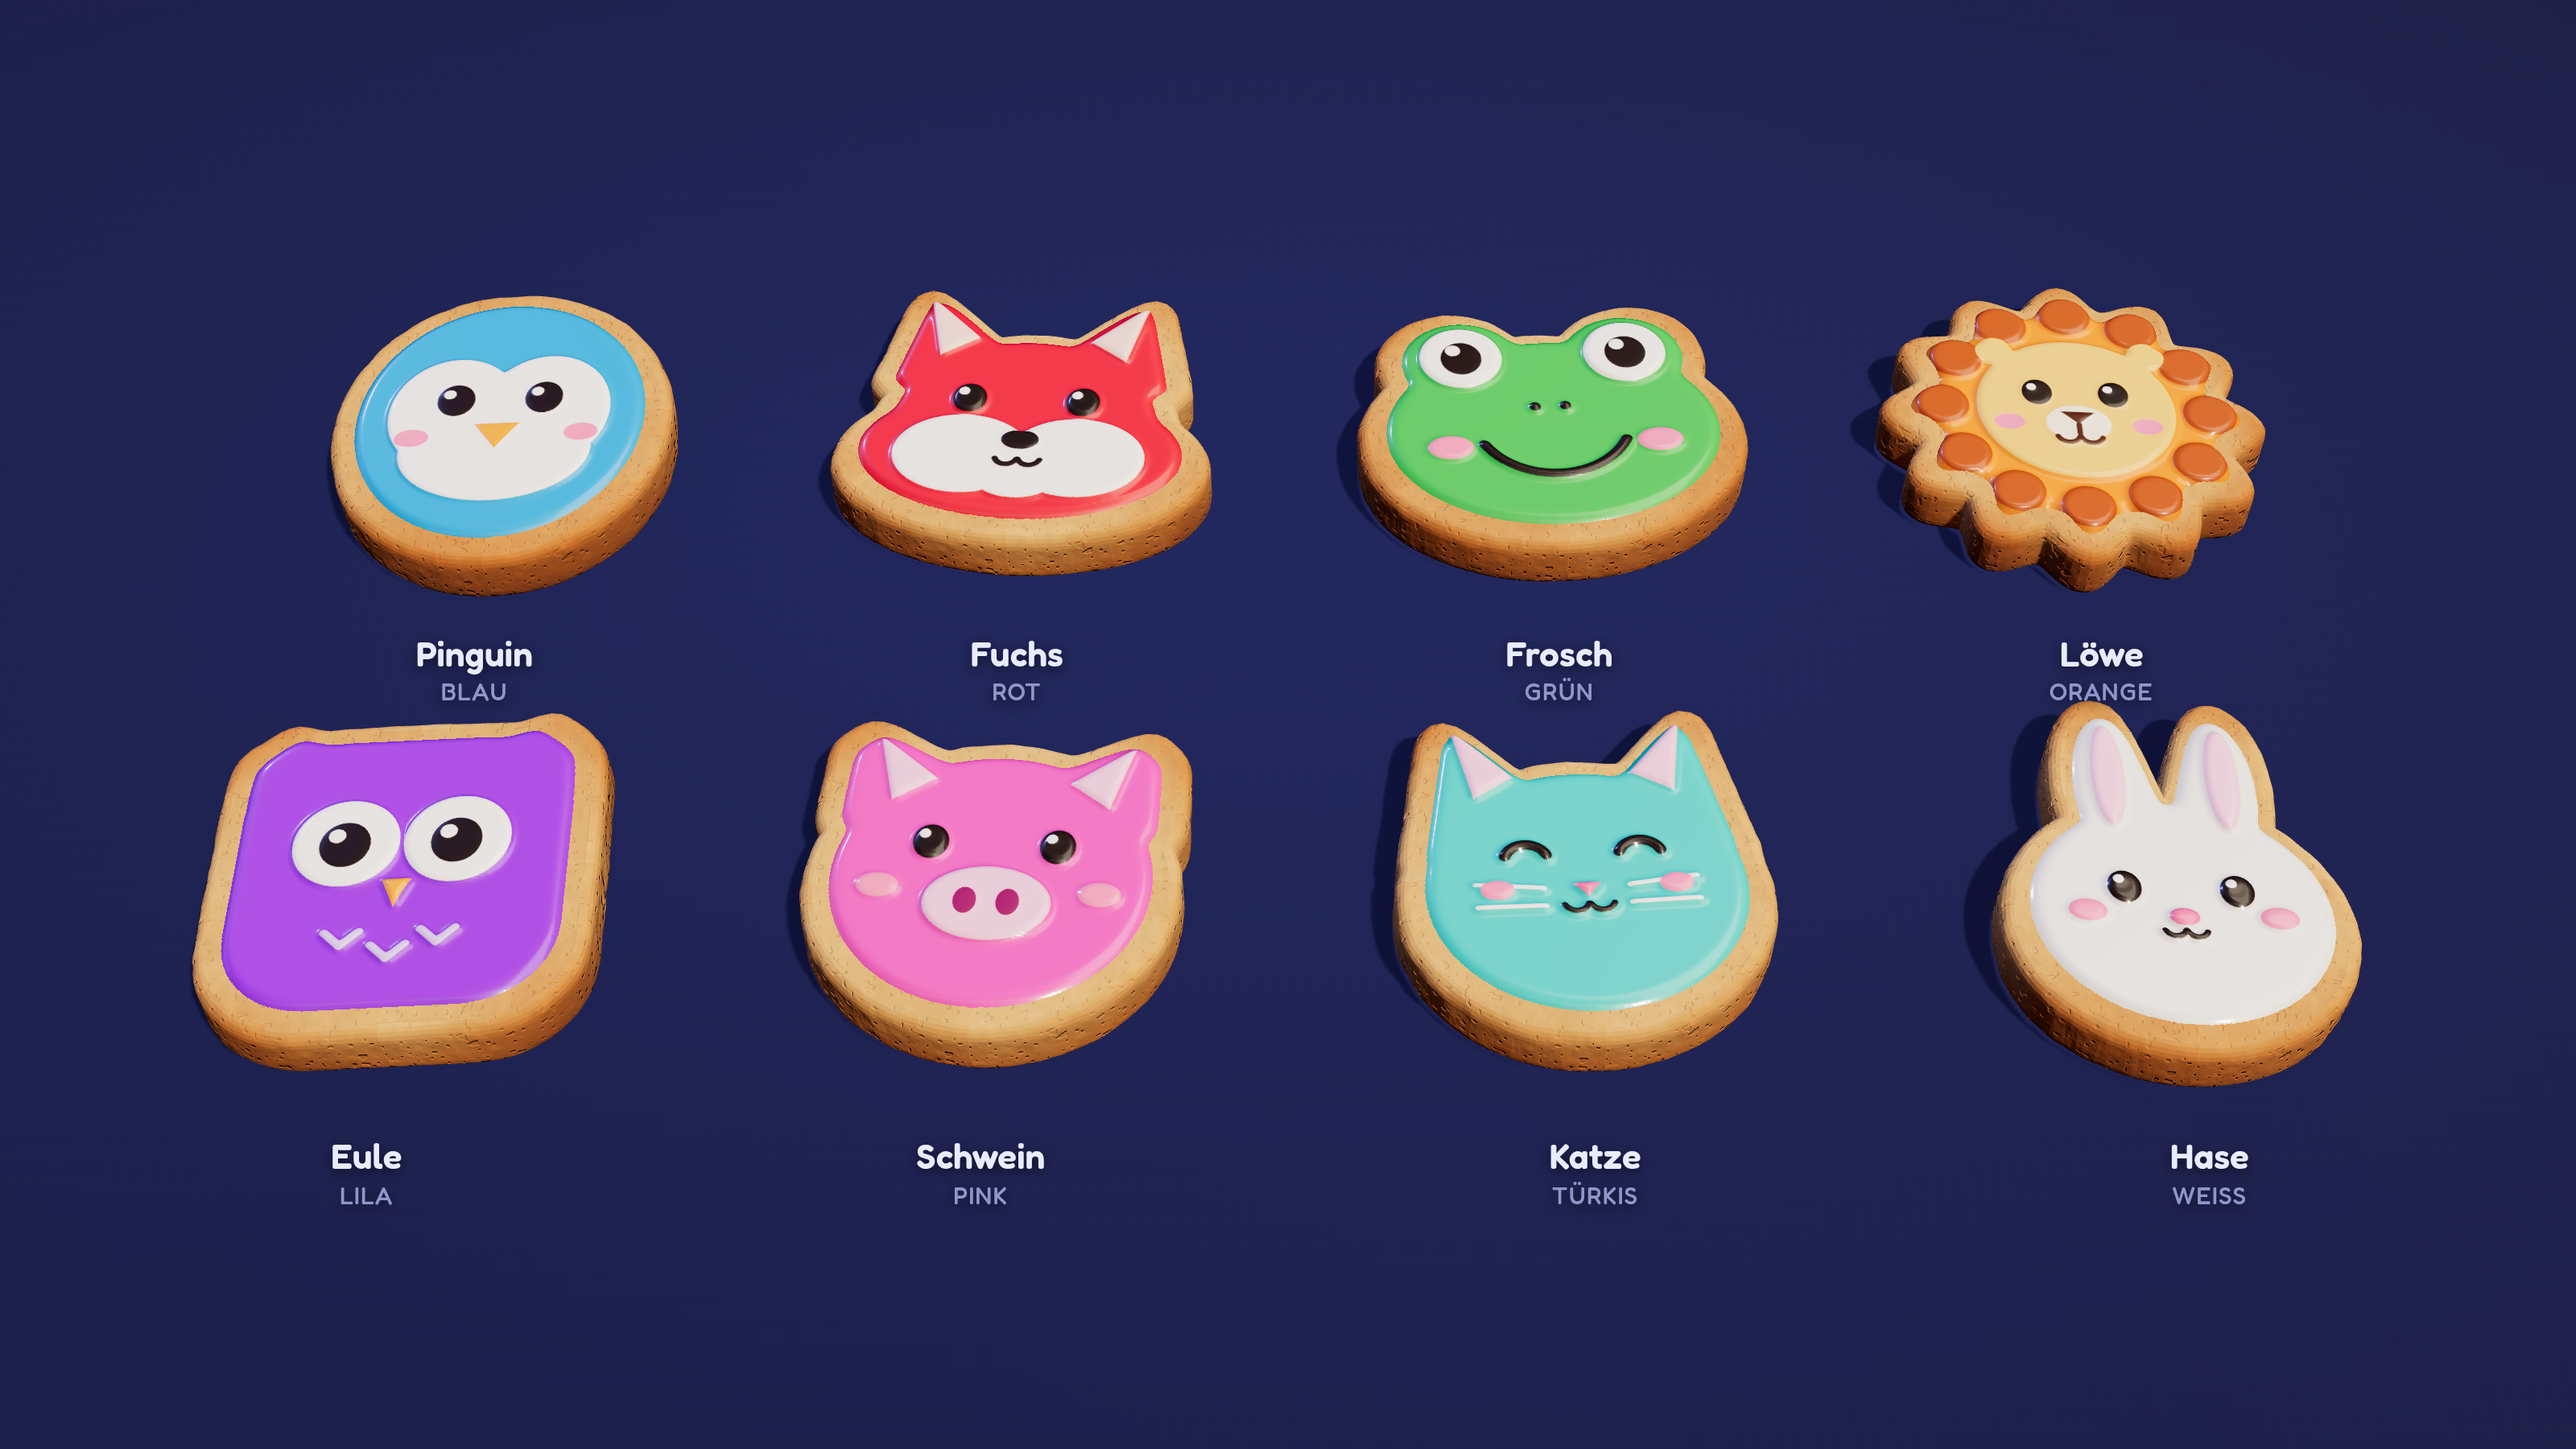
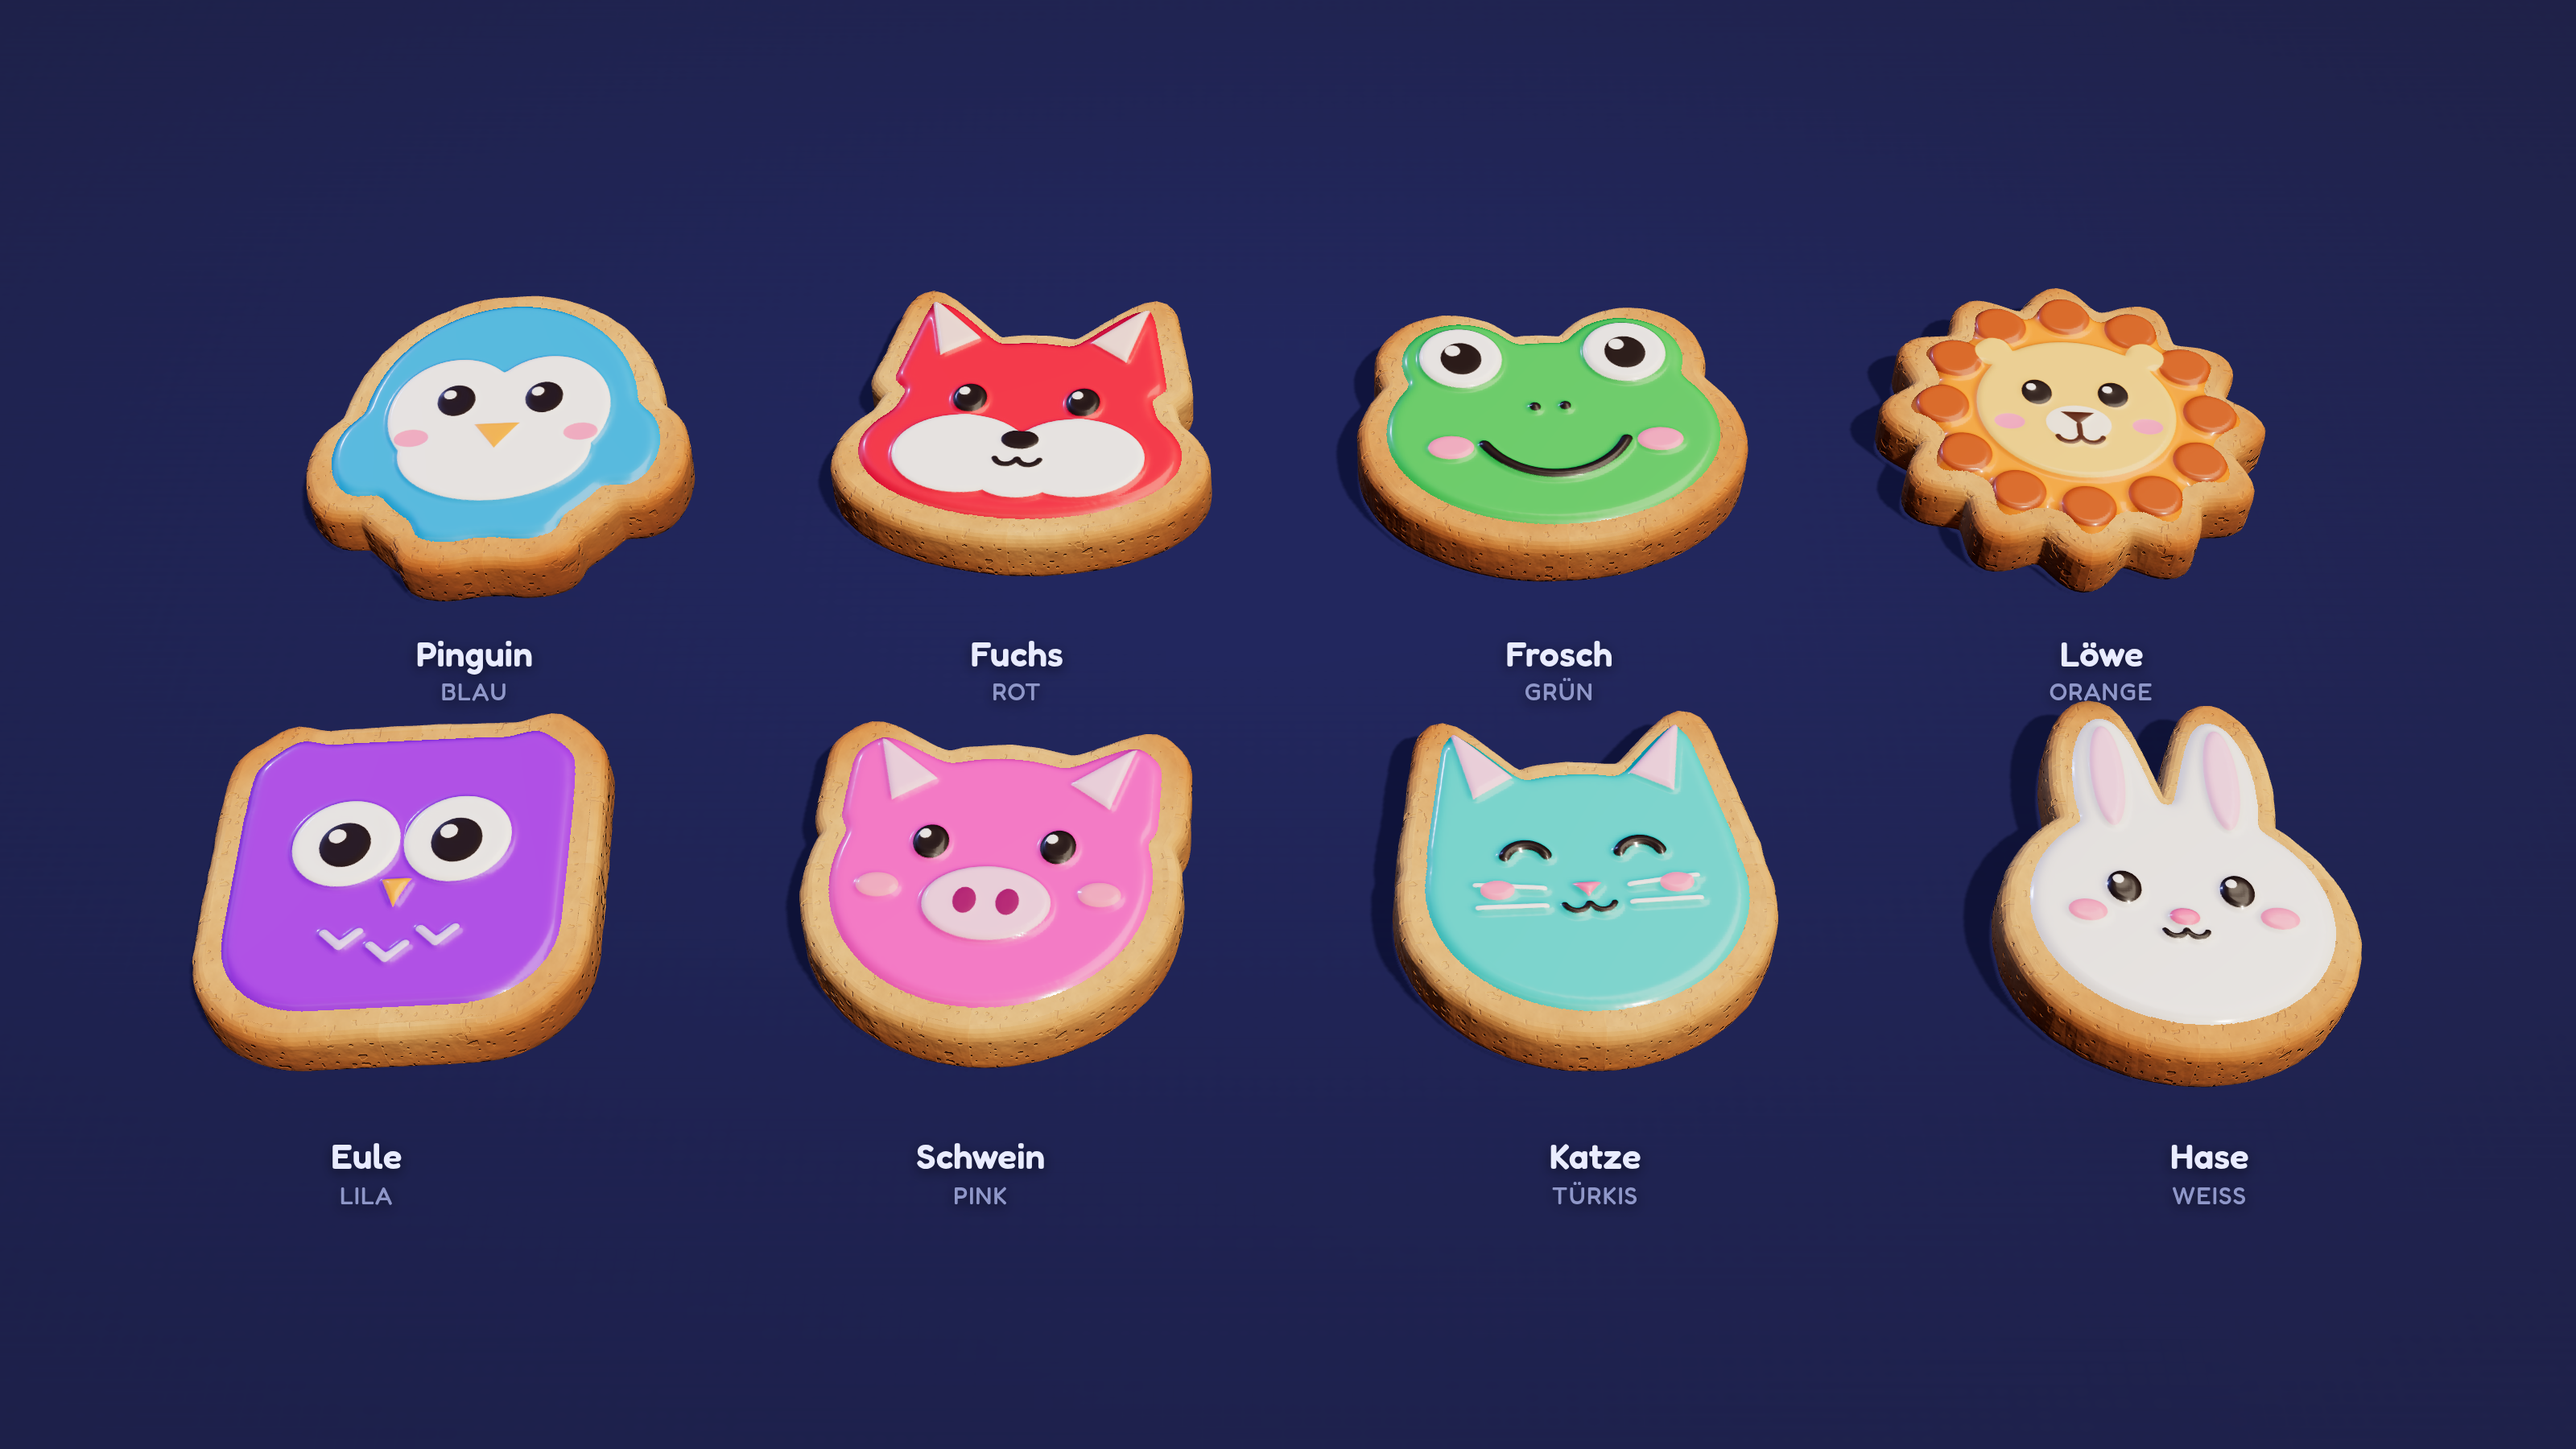
Keks-Studie: Pinguin-Ausstecher mit Flossen, Sättigung nur auf Guss

Changed region(s): [[0.0938, 0.2489, 0.2812, 0.4356], [0.2188, 0.2178, 0.25, 0.2489], [0.1562, 0.2178, 0.1875, 0.2489]]

diff --git a/design-concepts/cookies/render.html b/design-concepts/cookies/render.html
@@ -30,7 +30,7 @@ if (VIEW === 'board') {
     const ck = buildCookie(SET, cl.value, { state, size: pitch * .47, seed: cl.r * 7 + cl.c + 1 });
     ck.position.set((cl.c - (N - 1) / 2) * pitch, P.board.top - .02, (cl.r - (N - 1) / 2) * pitch);
     ck.rotation.y = state === 'normal' ? (Math.sin(cl.r * 3.1 + cl.c * 1.7) * .05) : 0;
-    ck.traverse(o => { if (o.isMesh) { o.castShadow = true; o.receiveShadow = true; for (const m of [].concat(o.material)) { if ('envMapIntensity' in m) m.envMapIntensity = +(q.get('env') || .5); if (m.isMeshPhysicalMaterial) saturate(m, +(q.get('sat') || 1.45)); } } });
+    ck.traverse(o => { if (o.isMesh) { o.castShadow = true; o.receiveShadow = true; for (const m of [].concat(o.material)) { if ('envMapIntensity' in m) m.envMapIntensity = +(q.get('env') || .5); if (m.isMeshPhysicalMaterial) saturate(m, m.map && !m.alphaMap ? 1.05 : +(q.get('sat') || 1.4)); } } });
     scene.add(ck);
   }
   console.log('toneMapping', board.graphics.renderer.toneMapping, board.graphics.renderer.toneMappingExposure);
